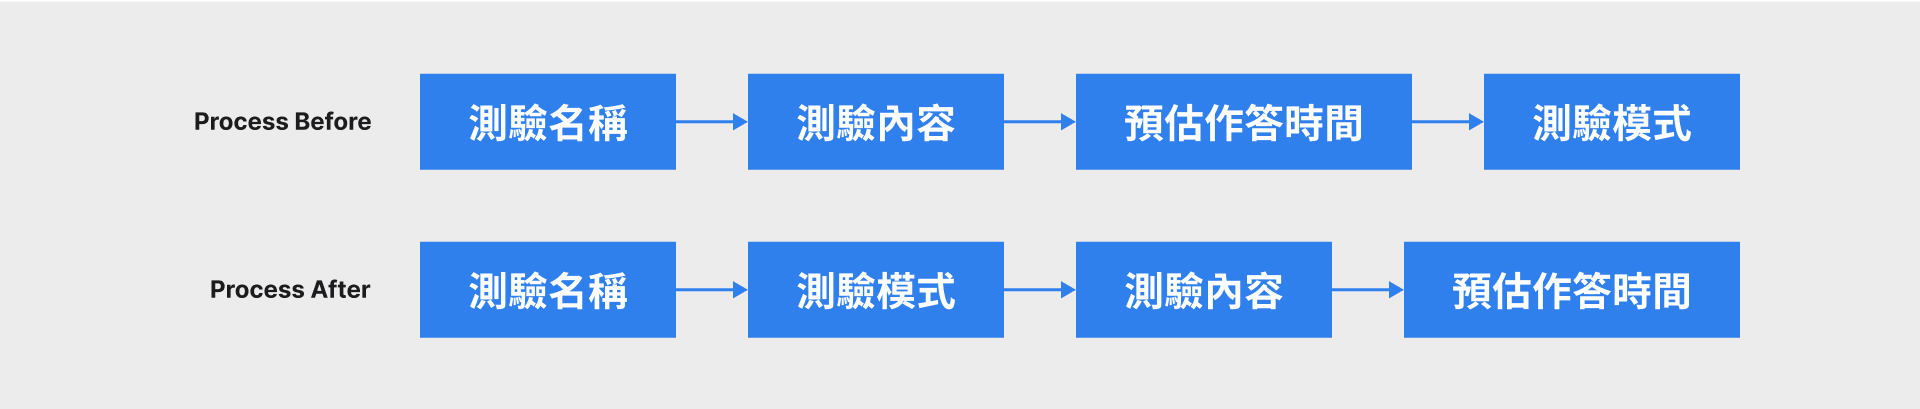
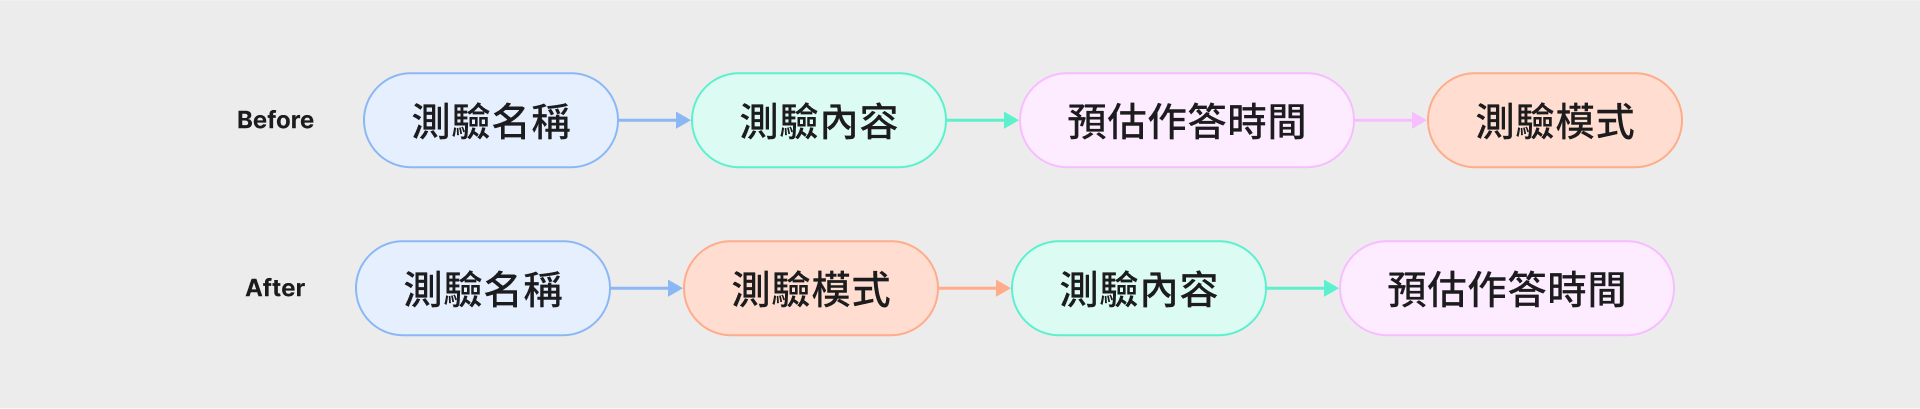
Optimize assmt content

Changed region(s): [[0.0938, 0.5868, 0.9062, 0.8509], [0.0938, 0.176, 0.9062, 0.4401]]

diff --git a/project/assessment-redesign.html b/project/assessment-redesign.html
@@ -106,7 +106,7 @@
         <div class="wrapper">
           <div class="project-title">
             <h2 class="h-2">Academy 測驗建立模組優化</h2>
-            <h4 class="h-4">結合質化研究，找尋更多證據來支撐設計論點</h4>
+            <h4 class="h-4">賦予模組全新的直覺操作體驗點</h4>
           </div>
           <div class="grid--4by2">
             <div>
@@ -140,7 +140,8 @@
           <div class="grid--equalSm">
             <div class="overview">
               <h5 class="h-5">團隊目標</h5>
-              <p>基於先前的用戶回饋，為測驗建立模組增加「上傳圖片」及「自訂分數」的功能，同時優化操作體驗，讓產品符合更多使用情境。</p>
+              <p>• 基於用戶回饋，增加「上傳圖片」及「自訂分數」的功能</p>
+              <p>• 優化操作體驗，提升產品易用性</p>
             </div>
             <div class="overview">
               <h5 class="h-5">角色與產出</h5>
@@ -149,11 +150,14 @@
             </div>
             <div class="overview">
               <h5 class="h-5">專案挑戰</h5>
-              <p>因應模組操作體驗的優化，需要說服開發團隊，進行程式面的重構。</p>
+              <p>• 規劃滿足多種情境的介面與操作流程（考量擴充性，讓未來的模組也能沿用）</p>
+              <p>• 應模組操作體驗的優化，說服開發團隊進行程式面重構</p>
             </div>
             <div class="overview">
               <h5 class="h-5">成果與影響</h5>
-              <p>成功提升操作效率，降低用戶在建立測驗時的認知負荷，可以快速完成任務。</p>
+              <p>• 每題測驗建立時間 -33%</p>
+              <p>• 整份測驗建立時間 -24%</p>
+              <p>• 提升效率，降低認知負荷，讓用戶更快速完成任務</p>
             </div>
           </div>
         </div>
@@ -172,17 +176,9 @@
       <div class="wrap wrap--narrow">
         <div class="wrapper">
           <h4 class="h-4">用戶研究</h4>
-          <p>專案前期，我們進行用戶測試與訪談來定義核心問題，了解用戶如何理解「測驗」這個模組，包括: 習慣的操作流程是什麼？對於 Quiz 與
-            Exam
-            字面上的理解是什麼？在規劃測驗時通常怎麼訂定分數？...等，最後整理收集到的資料和洞察，最後製作一份旅程地圖，幫助團隊更好的理解用戶所遇到的問題。</p>
-          <div class="callout mb-24">
-            <p>透過研究，我們學習到：</p>
-            <h5 class="h-5">內容提供者不知道如何操作新增答案選項</h5>
-            <h5 class="h-5">內容提供者不確定「Quiz」跟「Exam」兩種模式的差異</h5>
-            <h5 class="h-5">內容提供者要離開編輯頁面時，會擔心內容是否有被儲存</h5>
-            <h5 class="h-5">內容提供者習慣先為測驗命名，或先設定測驗模式</h5>
-            <h5 class="h-5">內容提供者不確定如何換算通關標準與總分</h5>
-          </div>
+          <p>我們訪談了五位用戶，了解他們的工作內容、操作流程、需要關注的資訊，最後整理收集到的資料和洞察，最後製作一份旅程地圖，幫助團隊更好的理解用戶所遇到的問題。</p>
+          <img src="/assets/img/project/academy-assmt_persona.png"
+            alt="" class="mb-24" loading="lazy">
           <img src="/assets/img/project/academy-assmt_user-journey-map.png"
             alt="" class="mb-24" loading="lazy">
           <p>同時，我們也進行了競品分析，研究市面上的直接及間接競品，種類包含線上問卷或測驗工具。發現它們都有明顯視覺層級，並將進階設定收納起來，保持功能畫面的簡潔，讓用戶能專注在編輯題目內容的區塊上。</p>
@@ -191,7 +187,7 @@
         </div>
       </div>
     </div>
-    <div class="section section--white">
+    <!-- <div class="section section--white">
       <div class="wrap wrap--narrow">
         <div class="wrapper">
           <h4 class="h-4">定義問題</h4>
@@ -218,8 +214,8 @@
           </div>
         </div>
       </div>
-    </div>
-    <div class="section section--white">
+    </div> -->
+    <!-- <div class="section section--white">
       <div class="wrap wrap--narrow">
         <div class="wrapper">
           <h4 class="h-4">建立假設</h4>
@@ -239,6 +235,17 @@
               <p class="m-0">增加「儲存」按鈕及「最後儲存時間」，可以幫助內容生產者及時掌控檔案狀況。</p>
             </div>
           </div>
+        </div>
+      </div>
+    </div> -->
+    <div class="section section--white">
+      <div class="wrap wrap--narrow">
+        <div class="wrapper">
+          <h4 class="h-4">設計策略</h4>
+          <p>我們歸納出三個對使用者體驗影響重大的問題，並制定此次專案的設計策略，重新設計「測驗」功能的流程與架構，提升用戶的工作效率：</p>
+          <img class=""
+            src="/assets/img/project/academy-assmt_strategy.png"
+            alt="" loading="lazy">
         </div>
       </div>
     </div>
